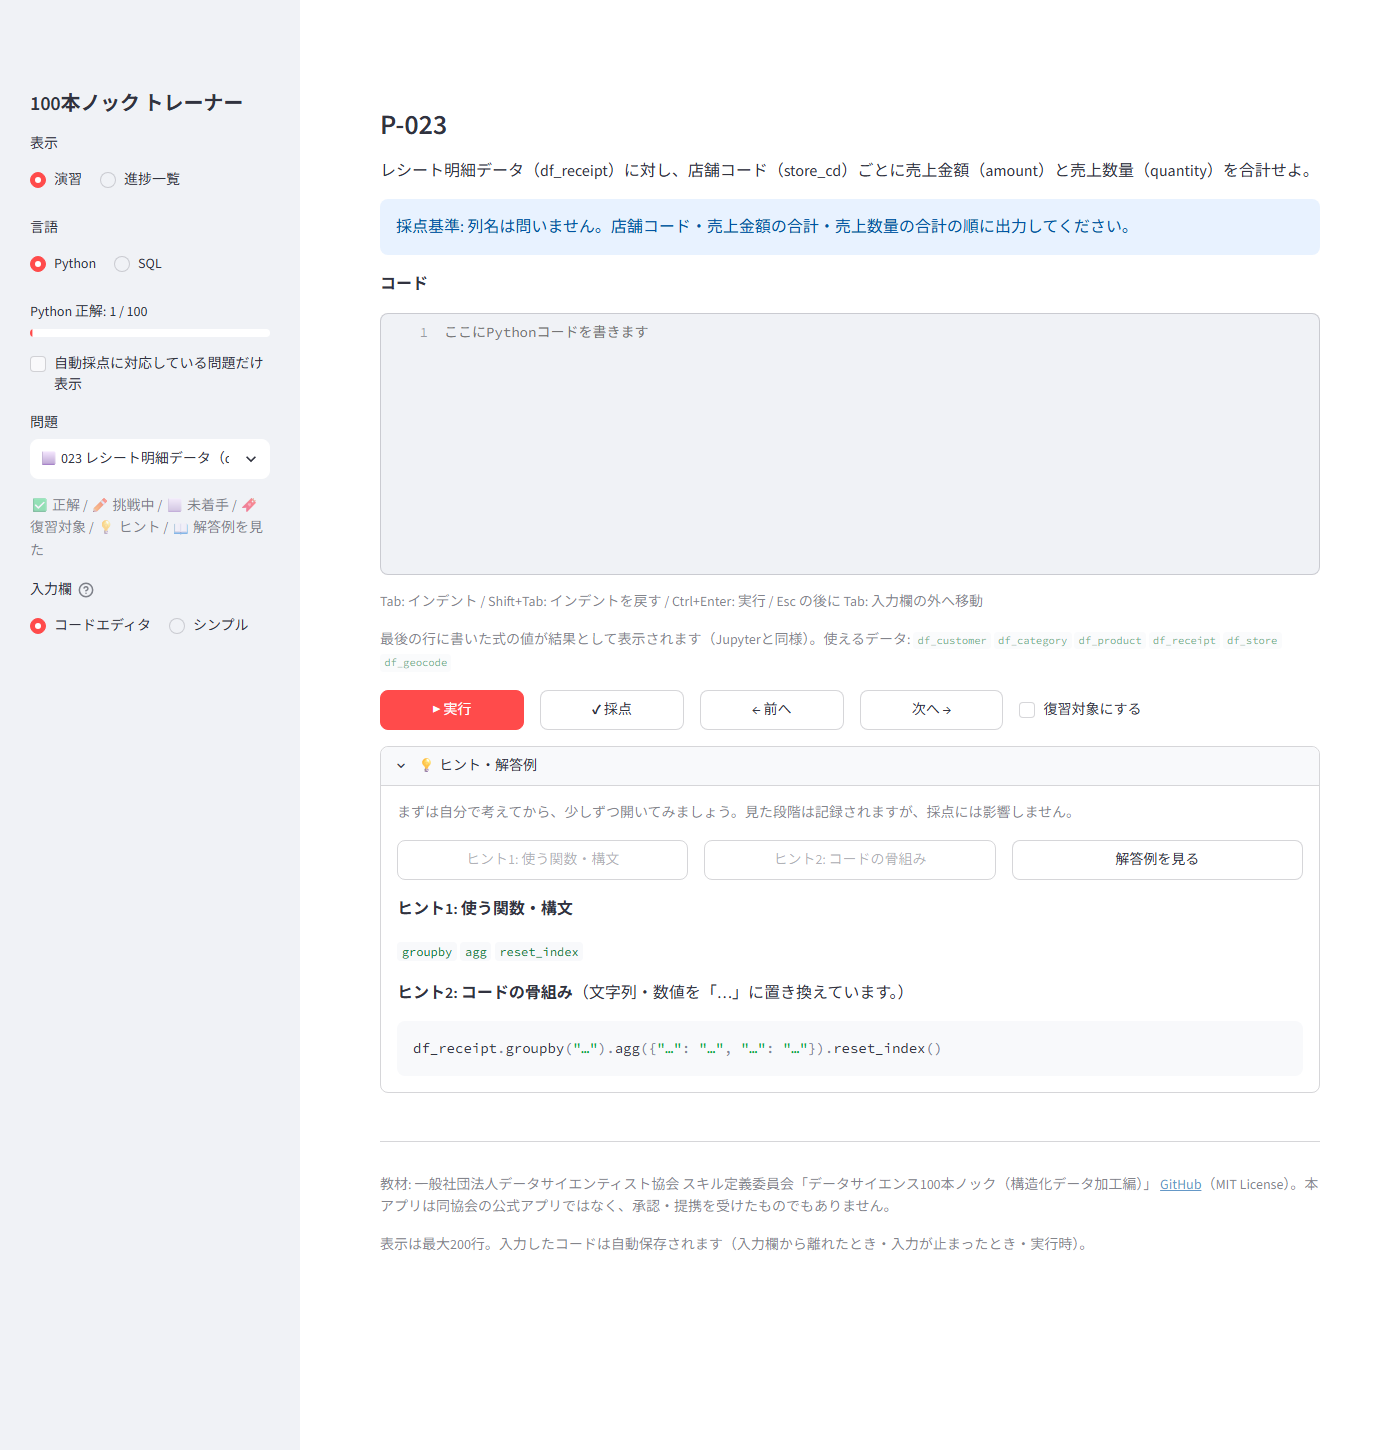
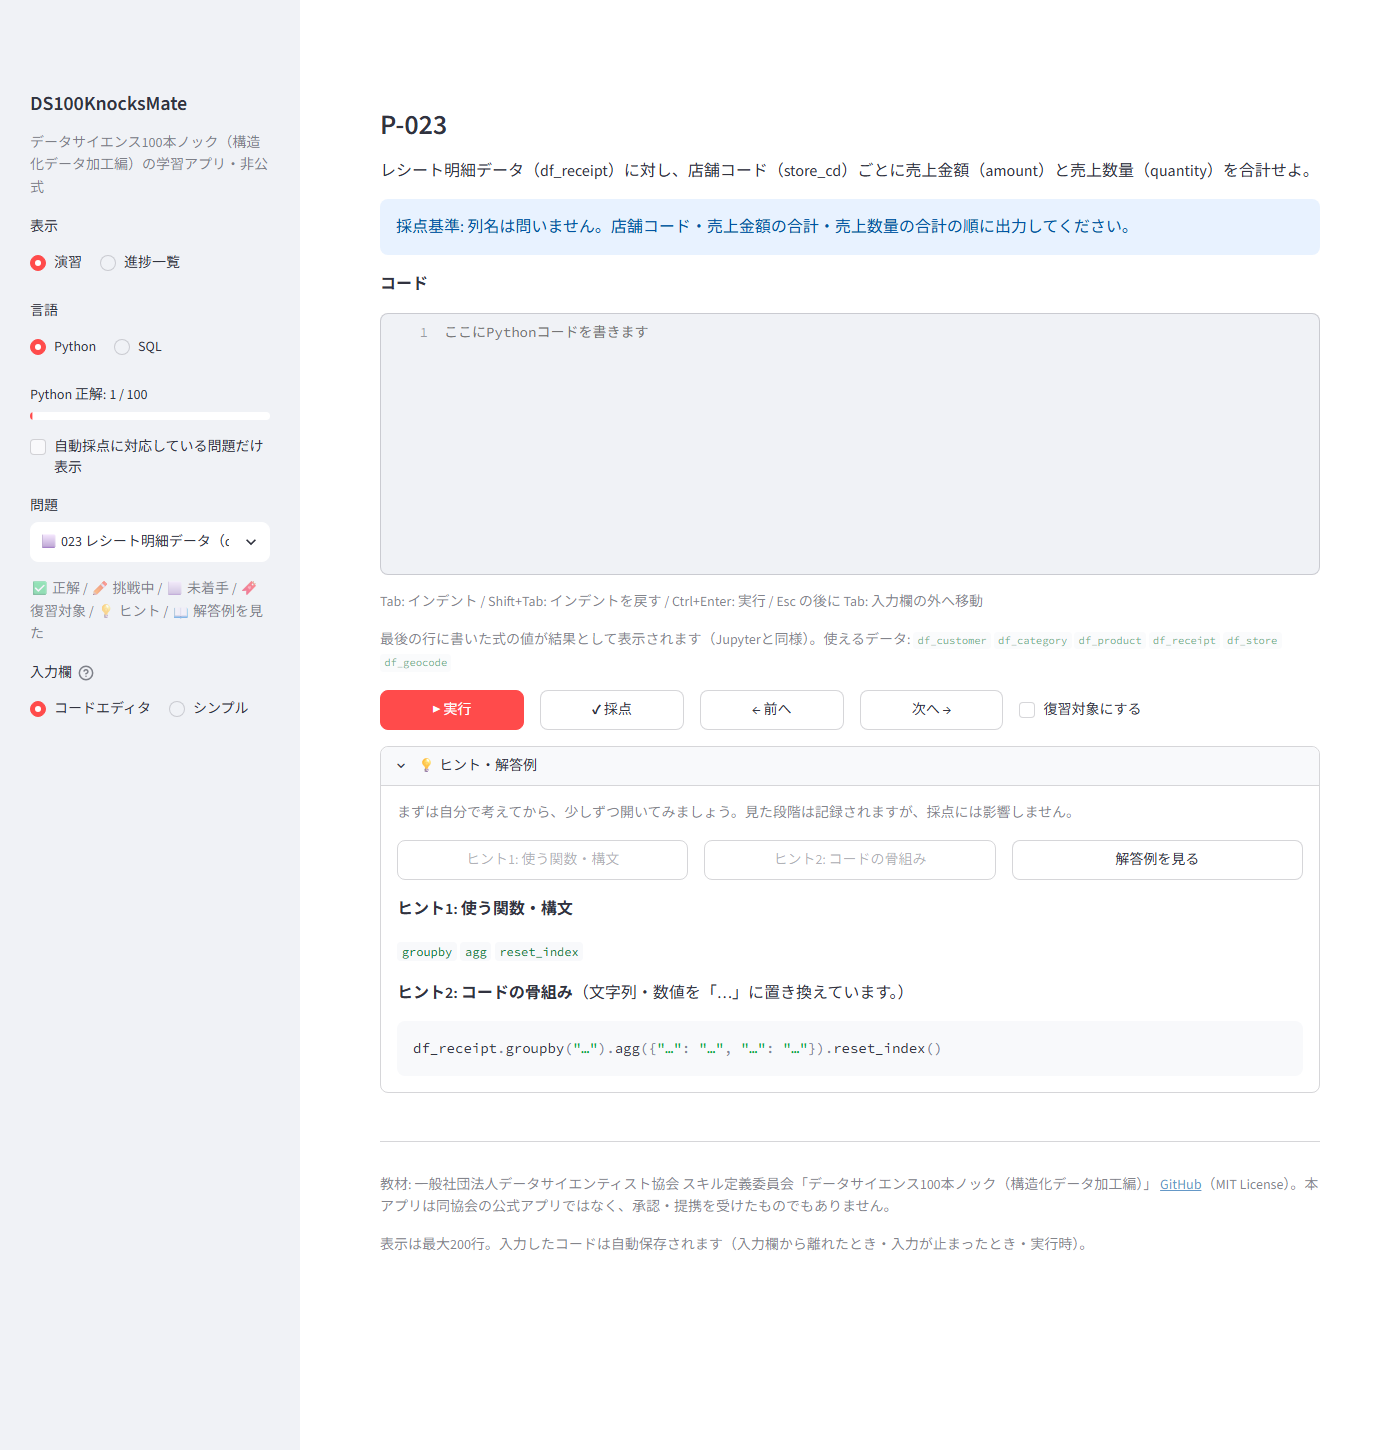
名前の表記を DS100KnocksMate に統一（画面・文書・スクリーンショット）

Changed region(s): [[0.0, 0.1552, 0.1843, 0.4655], [0.0, 0.0621, 0.1843, 0.1241], [0.0921, 0.1552, 0.1229, 0.1862]]

diff --git a/app/main.py b/app/main.py
@@ -1,4 +1,4 @@
-"""100本ノック トレーナー（Streamlit UI）。
+"""DS100KnocksMate（Streamlit UI）。
 
 起動（Docker）: docker compose up -d --build → http://127.0.0.1:8501
 学習者のコードはこのプロセスでは実行しない（Pythonは隔離ワーカー、SQLは読み取り専用DB）。
@@ -401,13 +401,14 @@ def render_practice(service: TrainerService, exercise_id: str, language: str, or
 
 
 def main() -> None:
-    st.set_page_config(page_title="100本ノック トレーナー", page_icon="📝", layout="wide")
+    st.set_page_config(page_title="DS100KnocksMate", page_icon="📝", layout="wide")
     service = get_service()
     statuses = service.statuses()
 
     # ---- サイドバー: 表示切替・言語・進捗・問題選択
     with st.sidebar:
-        st.header("100本ノック トレーナー")
+        st.header("DS100KnocksMate")
+        st.caption("データサイエンス100本ノック（構造化データ加工編）の学習アプリ・非公式")
         view = st.radio(
             "表示", list(VIEW_LABELS), format_func=VIEW_LABELS.get, horizontal=True, key="view"
         )

diff --git a/docs/DECISIONS_AND_RISKS.md b/docs/DECISIONS_AND_RISKS.md
@@ -96,12 +96,12 @@
 - **上流解答をテスト対象外にしたもの（理由は tests 内に記載）**: pandas 3 非互換（071〜073, 083, 084, 086 の Python）、確認用/前セル依存のセル、092 SQL の address 欠落（上流の誤り）、094〜100 SQL のサーバー上ファイル入出力
 - **リスク（書き込み可能モード）**: 一時テーブルは statement_timeout（15秒）内であれば大きく作れるため、DBコンテナのディスクを一時的に使う。ローカル単一利用のため許容し、ROLLBACK/セッション終了で削除される
 - **段階的ヒント（2026-10-18）**: `core/exercises/hints.py`。Python は ast で関数呼び出しを出現順に抽出、骨組みは tokenize で文字列・数値を「…」に（コメント除去）。SQL は sqlparse でキーワードと関数名を抽出（SELECT 等の基本語と、別名に使われやすい UNKNOWN は除外）、骨組みは識別子も「…」に（SQL は文字列・数値を含まない解答が多く、伏せないと解答そのものになるため）。元にするコードは、Python は動く最初の解答例、SQL は全セル（手順のため）。動かない解答例しかない場合は採点用参照コードを「pandas 3 で動く書き方の例」として表示。解答例への注記は `exercises/answer_notes.toml`。学習履歴に `hint_level` 列（スキーマ v2、既存データは自動移行）。
-- **公開に向けた決定（2026-10-18, Phase 4・ユーザー確認済み）**: 自作部分は MIT License（Copyright (c) 2026 sim0407）、名前は DS100KnocksMate（画面上の表示名は「100本ノック トレーナー（非公式）」）。起動用ファイル（start/stop の .bat / .command）を用意。ビルド済みイメージの配布は見送り（利用者が手元でビルド）。
+- **公開に向けた決定（2026-10-18, Phase 4・ユーザー確認済み）**: 自作部分は MIT License（Copyright (c) 2026 sim0407）、名前は DS100KnocksMate（画面・文書の表記も DS100KnocksMate に統一。画面には「データサイエンス100本ノック（構造化データ加工編）の学習アプリ・非公式」と添える）。起動用ファイル（start/stop の .bat / .command）を用意。ビルド済みイメージの配布は見送り（利用者が手元でビルド）。
 - **Phase 4 で見つけた重大な問題**: `.gitignore` の `progress/` が `core/progress/` まで除外し、学習履歴のコードが一度もコミットされていなかった（作業フォルダからのテストでは発覚しない）。`/progress/` に修正し、`tests/unit/test_repository_hygiene.py` で再発を防ぐ。以後、公開前の確認は「空のフォルダに clone して起動・テスト」で行う。
 - **ベースイメージの更新（2026-10-18）**: Trivy で python:3.12.13-slim（固定ダイジェスト）に修正版のある CRITICAL（perl）・HIGH が多数あったため、python:3.12.15-slim（ダイジェスト固定）へ更新し、全テストを再実行。今後は Dependabot（docker / github-actions / uv、月1回）で更新を知り、`docs/RELEASE_CHECKLIST.md` の手順で確認してから取り込む。
 - **fork のテストの実行場所**: pyarrow がある開発環境では pandas の読み込みでスレッドが生じ、本番（ワーカーは単一スレッド）と条件が違うため、fork のテストはワーカーのコンテナで実行する（CI の worker ジョブ）。ワーカーの親プロセスが単一スレッドであることもテストで確認。
 - **pyarrow**: 当面入れない（pandas 3 の文字列型はPython実装で動作）。性能問題が出たら再検討。
-- **自作部分のライセンス**: MITを第一候補（Phase 4で最終確認）。名称は仮称のまま（リポジトリ名 `DS100KnocksMate` / 文書上の「100 Knocks Trainer」の統一はPhase 4）。
+- **自作部分のライセンス**: MITを第一候補（Phase 4で最終確認）。名称は Phase 4 で DS100KnocksMate に決定し、画面・文書の表記を統一（当初の仮称「100 Knocks Trainer」「100本ノック トレーナー」は使わない）。
 
 ### 追加リスク
 

diff --git a/README.md b/README.md
@@ -1,4 +1,4 @@
-# DS100KnocksMate — 100本ノック トレーナー（非公式）
+# DS100KnocksMate（非公式）
 
 「データサイエンス100本ノック（構造化データ加工編）」を、**自分のPCのブラウザで Python / SQL を書いて、その場で実行・自動採点・進捗保存**しながら解ける学習アプリです。
 

diff --git a/docs/TECHNICAL_DESIGN.md b/docs/TECHNICAL_DESIGN.md
@@ -22,7 +22,7 @@ UIと採点ロジック、問題定義、永続化、Python実行環境を分離
 ## 2. 推奨ディレクトリ（実装開始後に作る）
 
 ```text
-100knocks-trainer/
+DS100KnocksMate/
 ├── CLAUDE.md
 ├── README.md
 ├── app/                     # Streamlit UI, controllers

diff --git a/docs/PRODUCT_REQUIREMENTS.md b/docs/PRODUCT_REQUIREMENTS.md
@@ -1,4 +1,4 @@
-# プロダクト要件定義 — 100 Knocks Trainer
+# プロダクト要件定義 — DS100KnocksMate
 
 ## 1. 概要
 
